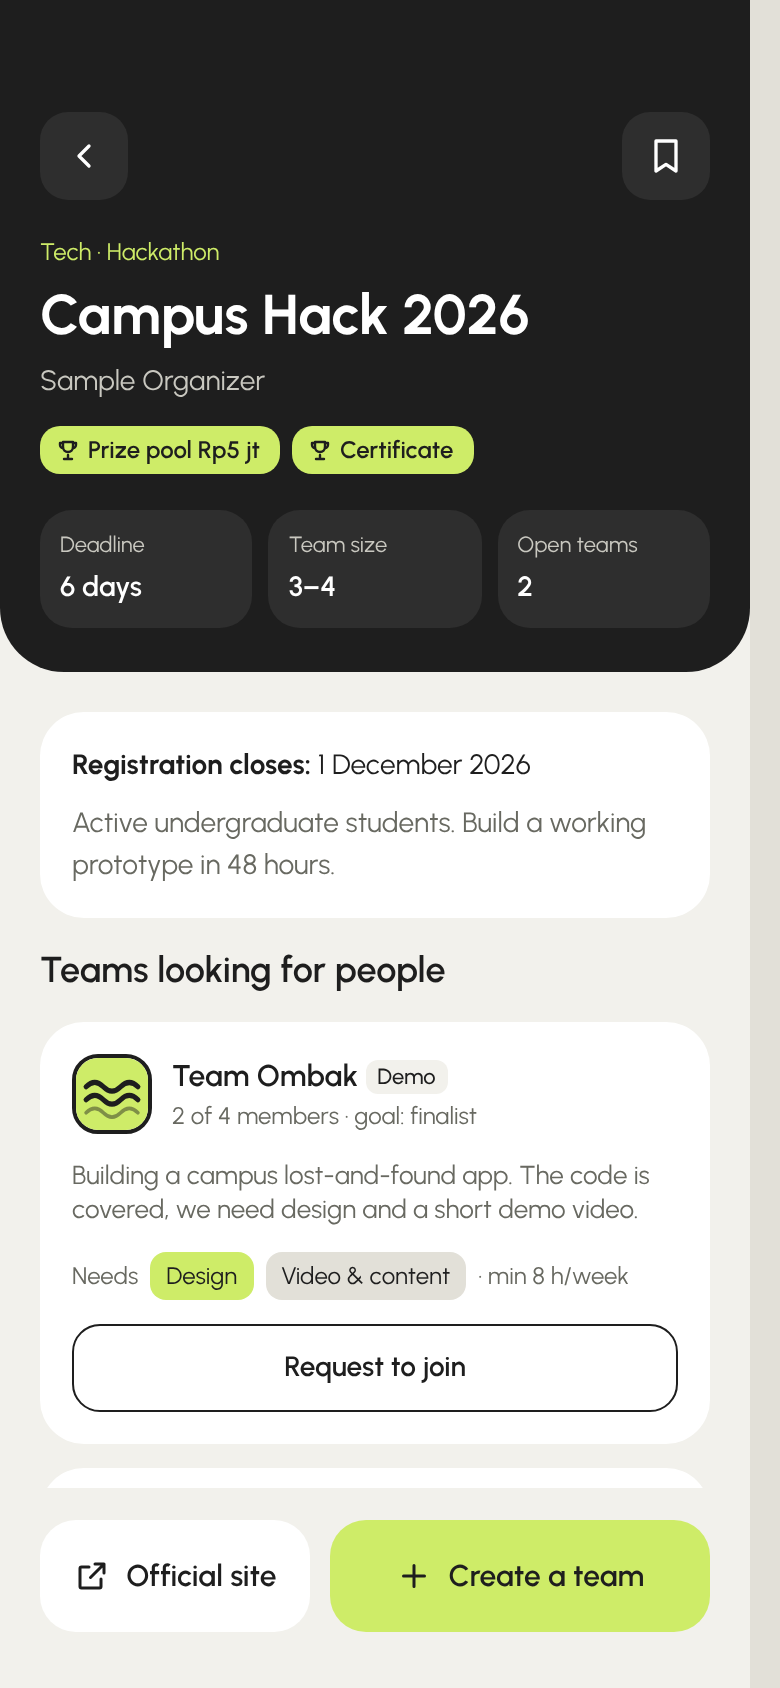
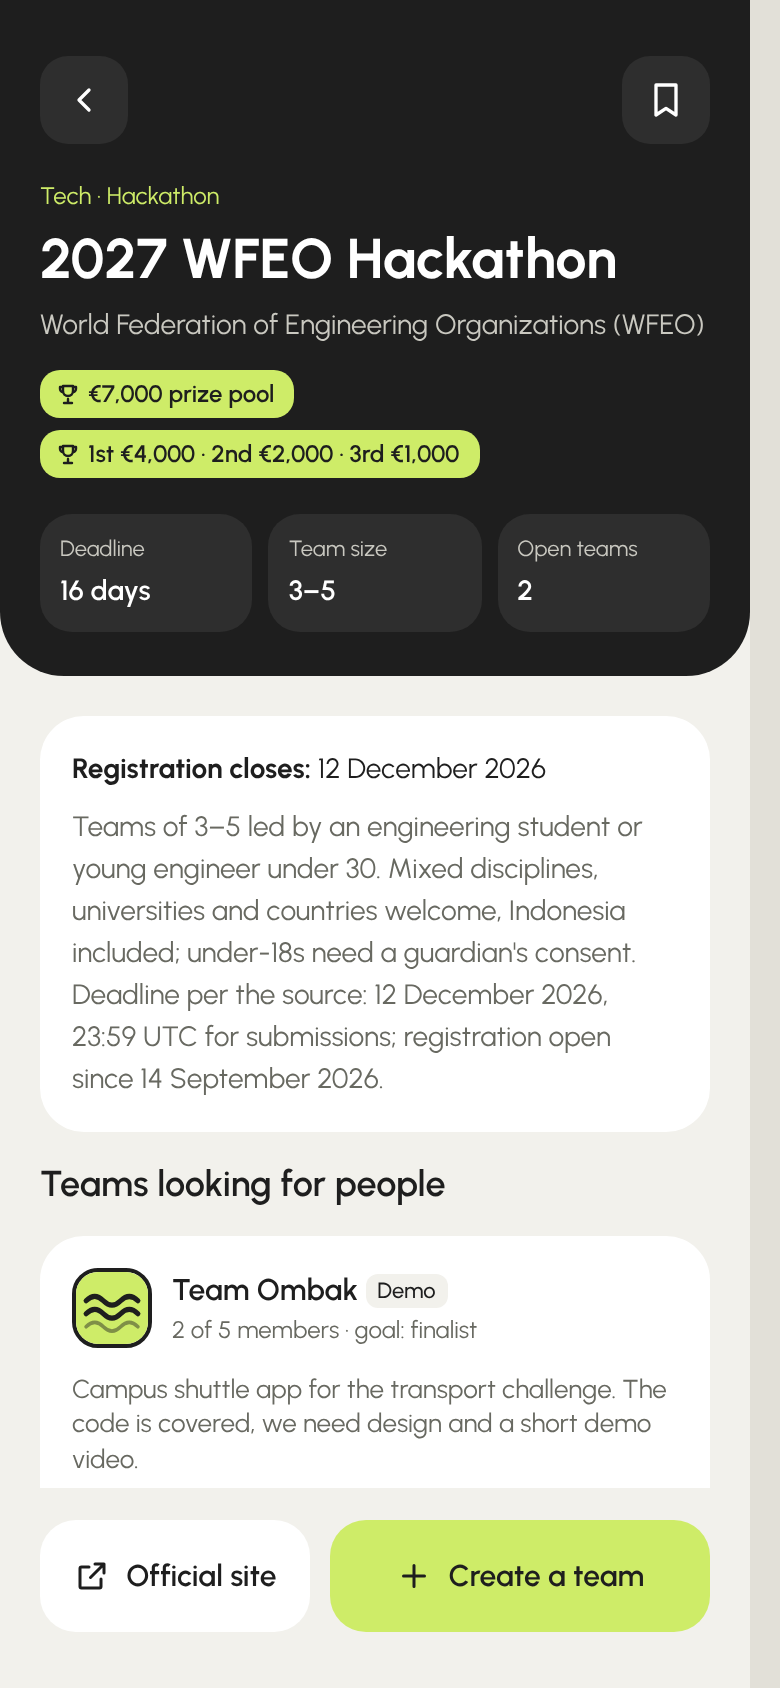
Update README for real competitions and retake screenshots
Claude-Session: https://claude.ai/code/session_012Ahig3JFbMaPX2wP634J6S

diff --git a/README.md b/README.md
@@ -8,13 +8,13 @@
   <img src="docs/screenshots/overview.png" alt="Radar Lomba screens: welcome, competitions, competition detail, find teammates, inbox, profile">
 </p>
 
-<p align="center"><sub>Screens from the running prototype. All people, teams and competitions shown are demo data.</sub></p>
+<p align="center"><sub>Screens from the running prototype. Competitions are real (from a verified list); people and teams are demo data.</sub></p>
 
 Radar Lomba helps undergraduates at one pilot campus (UIN Sunan Gunung Djati Bandung) form teams for a specific competition. A student opens a competition, posts a team with the roles it still needs, sees matching students, sends invites, and the team forms when people accept. Matching is plain rules (roles, free hours, goal). There is no AI in the product.
 
 Built by team Xplover for **STACK 2026**, Case 1: Smarter Campus and Learning.
 
-> **Status: semifinal prototype.** This repository is the **frontend only**. It runs on demo data stored in the browser (`localStorage`), so the whole flow can be clicked through without a backend. The real database and sign-in (Supabase) are planned for the Final Round and are not built yet. See [Complete vs not yet](#complete-vs-not-yet).
+> **Status: semifinal prototype.** This repository is the **frontend only**. It lists 29 real competitions and runs on demo people and teams stored in the browser (`localStorage`), so the whole flow can be clicked through without a backend. The real database and sign-in (Supabase) are planned for the Final Round and are not built yet. See [Complete vs not yet](#complete-vs-not-yet).
 
 ## Why it exists
 
@@ -71,7 +71,7 @@ Shortcuts: on the sign-in page, "I already have an account" opens a ready-made d
 ## Features
 
 **Students**
-- Competition list with search, category chips, saved competitions, rewards as tags and a "Closing soon" highlight.
+- Competition list (29 real competitions, closed ones hidden) with search, category chips, saved competitions, rewards as tags and a "Closing soon" highlight.
 - Competition detail: rules, deadline, team size, poster, official site, teams looking for people.
 - Add a competition that is not listed. It shows as "Added by student". Only the person who added it can edit or delete it, and an admin can hide it.
 - Team creation, candidate search, invite and join request flows, with a Sent and Received inbox.
@@ -121,10 +121,13 @@ src/
   components/           bottom nav, icons, shared UI, forms
   lib/
     types.ts            data shapes (match the planned Supabase tables)
-    seed.ts             fictional demo data
+    competitions.ts     29 real competitions (generated, do not edit by hand)
+    seed.ts             demo people, teams and accounts
     matching.ts         score, free hours, eligibility rules
     contacts.ts         contact validation and links
     store.tsx           local demo store; each action maps to one Supabase call later
+scripts/                import_lomba.py turns the verified sheet into competitions.ts
+docs/                   import report, logo, screenshots
 public/                 avatars, team images, illustrations, logo, PWA icons and manifest
 ```
 
@@ -136,14 +139,15 @@ Replace the actions in `src/lib/store.tsx` (`createProfile`, `createRequest`, `s
 
 ## Complete vs not yet
 
-**Complete in this prototype:** every screen above, the multi-competition rules, form validation, empty and error states, and the PWA manifest and icons.
+**Complete in this prototype:** every screen above, real competition data, deadline checks, the multi-competition rules, form validation, empty and error states, and the PWA manifest and icons.
 
 **Not yet:** real sign-in and real admin accounts, a database, server-side checks (RLS), poster storage (posters are small images kept in the browser), CSV import of competitions, push notifications, offline caching.
 
 ## Known limitations
 
 - Data lives in one browser only. Clearing site data resets it.
-- Competitions, teams and people are fictional and marked "Demo" or "Sample". Their links are placeholders.
+- Competitions are real: 29 entries from a list verified on 26 Nov 2026, translated to English, with closed ones hidden (see `docs/import-lomba-report.md`). People, teams and student accounts are fictional and marked "Demo" or "Sample".
+- Competition data is a snapshot. Deadlines are enforced in the app (no new teams or requests after the deadline), but nothing updates automatically.
 - Demo profiles answer automatically after a few seconds so the flow can be shown without a second person.
 - The sign-in and email steps are simulated. Nothing is sent.
 
